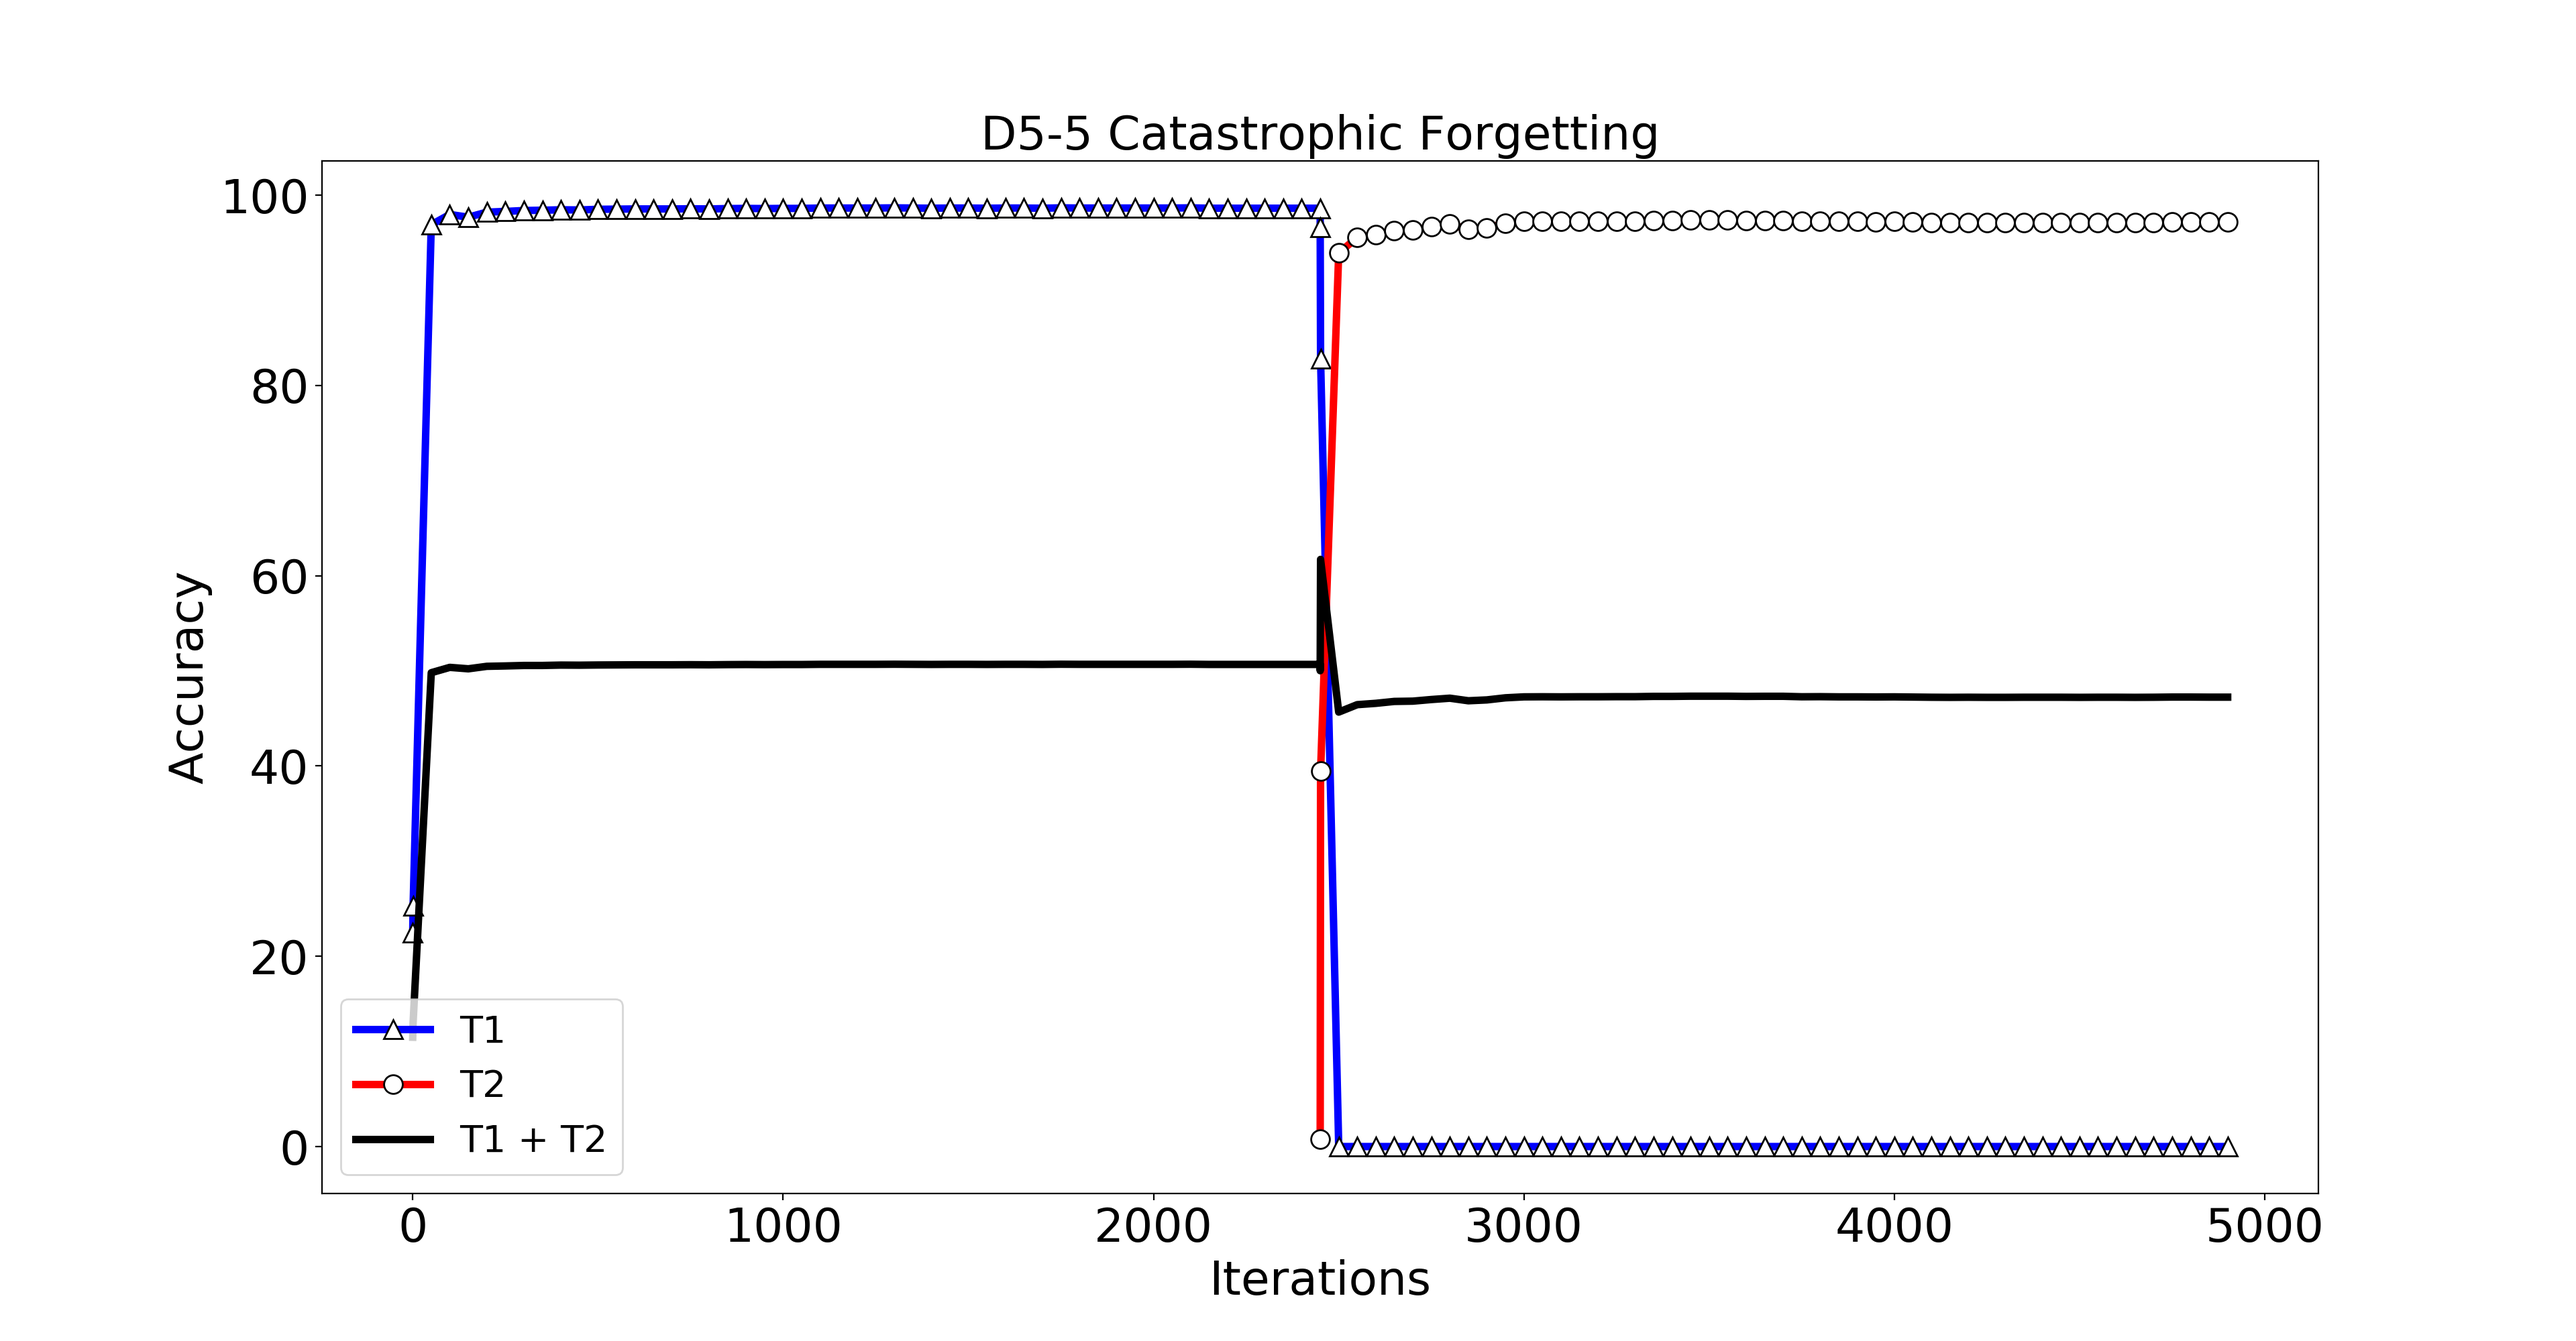
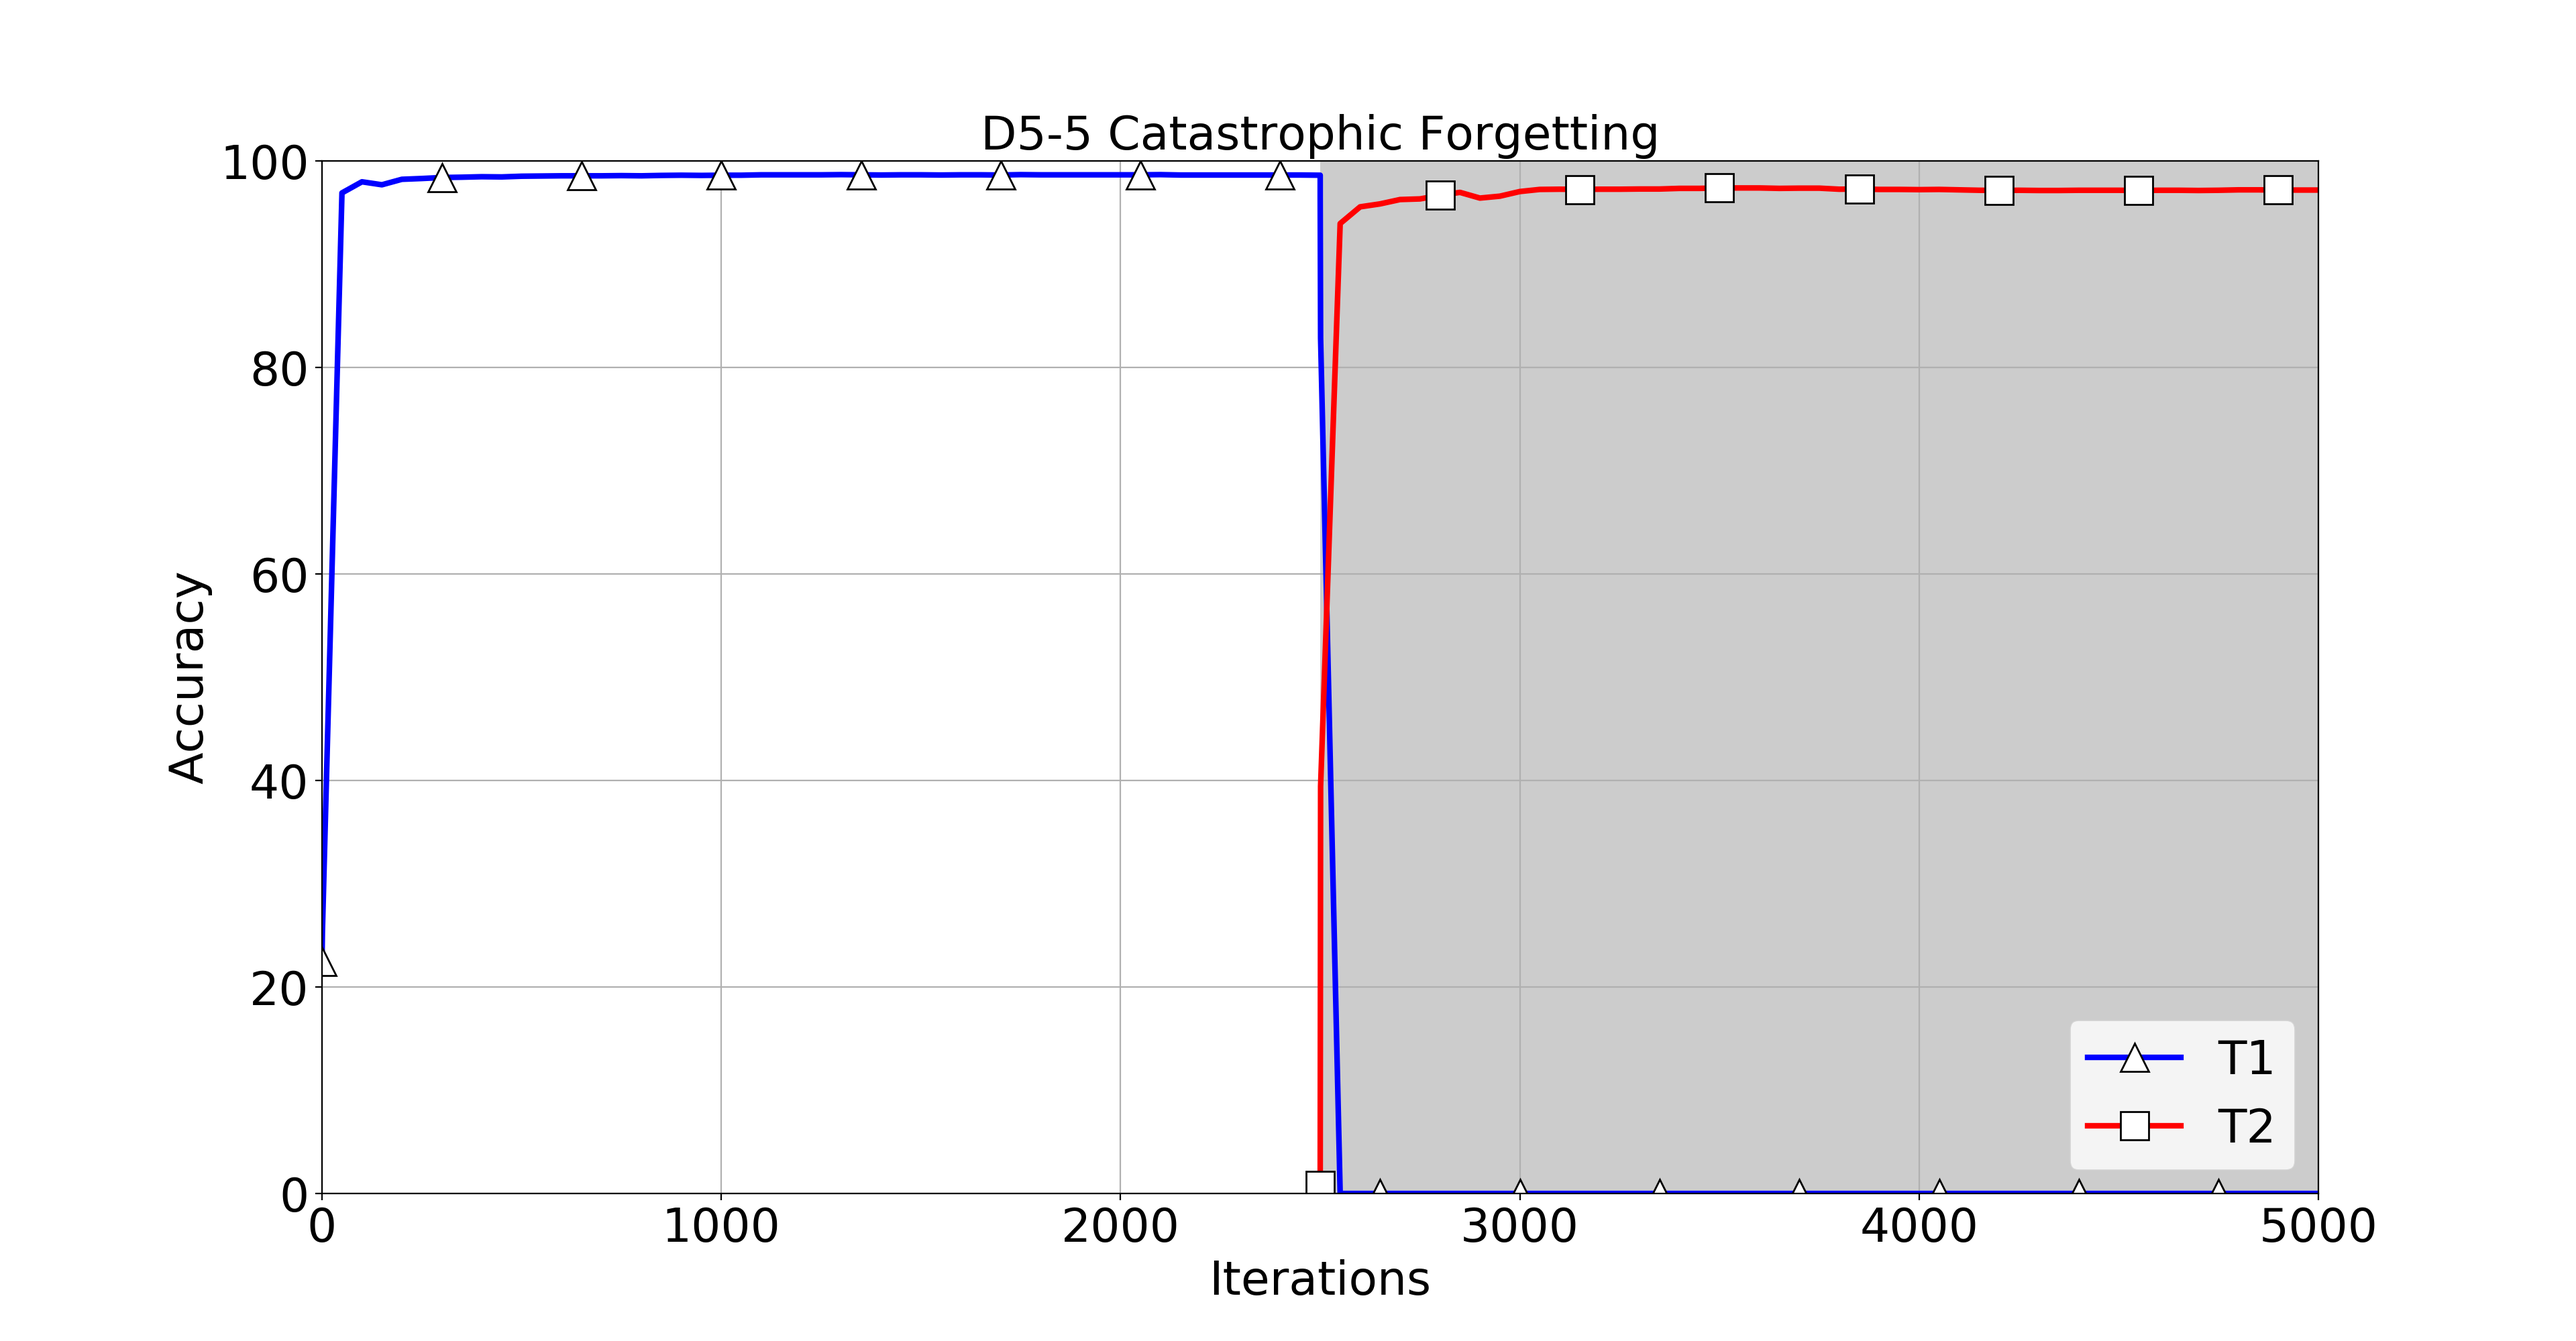
update foundation CF

diff --git a/thesis/chapters/2_Foundations.tex b/thesis/chapters/2_Foundations.tex
@@ -235,17 +235,17 @@ Iterating the Gradient Descent algorithm several times over different examples w
 \section{Catastrophic Forgetting}
 \label{catastrophic_forgetting}
 
-Catastrophic forgetting is an affect that happens, when a trained network gets retrained with a new dataset.
-This dataset could include complete new classes (disjoint MNIST) or the same classes with new information (permuted MNIST).
-The effect is that the network completely forgets the information learned in the dataset before.
+Catastrophic forgetting happens, when a trained network gets retrained with a new dataset.
+This dataset could include completely new classes (disjoint MNIST) or the same classes with new information (permuted MNIST).
+The effect is that the network forgets all the information learned in the previous training.
 \newline
-To show this effect in use, Figure \ref{fig:catastrophic_forgetting_d91_example} and Figure \ref{fig:catastrophic_forgetting_d55_example} present catastrophic forgetting in the two benchmarks D9-1 and D5-5.
+Figure \ref{fig:catastrophic_forgetting_d91_example} and Figure \ref{fig:catastrophic_forgetting_d55_example} show catastrophic forgetting in action.
+The figures demonstrate the training of task $T_1$ (white background) and re-training with task $T_2$ (gray background).
+The blue line ($\triangle$) represents the accuracy on $T_1$ and the red line ($\square$) on $T_2$.
 \newline
-The network is built with 784 inputs, 3 hidden layer with 800 neurons and 10 output classes.
-Each task trained with a learning rate of 0.001, 2,500 iterations and a batch size of 100.
-\newline
-Figure \ref{fig:catastrophic_forgetting_d91_example} shows the D9-1 benchmark. After the $T_1$ training, the accuracy of $T_1$ is at 96\%. In the second task the catastrophic fogetting happens and $T_1$ ends up with an accuracy of 0\%.
-% TODO deeper description (T_2 and complete dataset)
+The neural network uses 784 inputs, 3 hidden layer with 800 neurons and 10 output classes.
+Each task is trained with a learning rate of 0.001, 2,500 iterations and a batch size of 100.
+
 \begin{figure}[H]
     \centering
     \includegraphics[width=\textwidth]{D91_catastrophic_forgetting}
@@ -253,23 +253,22 @@ Figure \ref{fig:catastrophic_forgetting_d91_example} shows the D9-1 benchmark. A
     \label{fig:catastrophic_forgetting_d91_example}
 \end{figure}
 
-\newpage
+Figure \ref{fig:catastrophic_forgetting_d91_example} shows the D9-1 benchmark.
+After the training, $T_1$ results in 96\% accurcay.
+With the start of the re-training, the accuracy of $T_1$ drops immediately.
+$T_2$ on the other side gets quick results.
+\newline
+The immidiate drop of knowledge is represented by catastrophic forgetting.
 
-In Figure \ref{fig:catastrophic_forgetting_d55_example} the MNIST dataset is split up into two tasks with five classes each.
-The graph shows the accurancies of the two tasks.
-% TODO correct formulation
-The graph shows that the accuracy of the complete set is 50\% after the training of task $T_1$.
-The training of start $T_2$ immediately
-The training start of $T_2$ leads to a imidiatly drop to zero of the $T_1$ accuracy.
-After the training start of task $T_2$, the accuracy of $T_1$ drops to zero.
-The complete set can just predict 50\%.
-% TODO change figure (no complete dataset)
 \begin{figure}[H]
     \centering
     \includegraphics[width=\textwidth]{D55_catastrophic_forgetting}
     \caption{Catastrophic forgetting D5-5 example}
     \label{fig:catastrophic_forgetting_d55_example}
 \end{figure}
+
+Figure \ref{fig:catastrophic_forgetting_d55_example} shows the D5-5 benchmark.
+As well as in Figure \ref{fig:catastrophic_forgetting_d91_example} the catastrophic forgetting happens immediately after the start of the re-training.
 
 Catastrophic forgetting was first discovered by McCloskey and Cohen in 1989.
 They documented their research in the article "Catastrophic Intereference" \cite{psychology_learning_mccloskey_cohen} and explained the problem in a rather simplified version:
